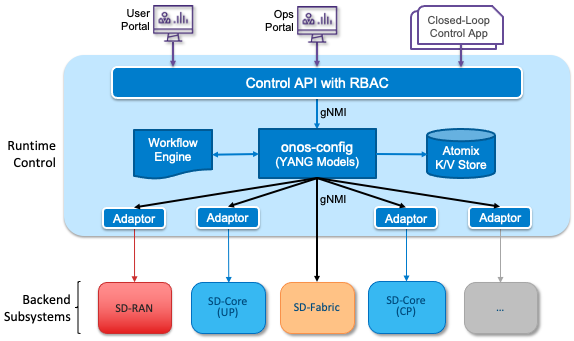
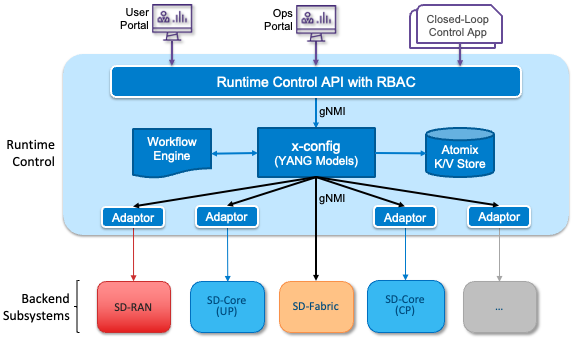
incorp feedback

diff --git a/control.rst b/control.rst
@@ -1,23 +1,22 @@
 Chapter 5:  Runtime Control
 ===========================
 	
-Runtime Control provides an API by which various principals (e.g.,
-users, operators) can make changes to a running system, primarily by
-specifying new values for one or more runtime parameters.
+Runtime Control provides an API by which various principals, such as
+end-users or privileged admins, can make changes to a running system,
+primarily by specifying new values for one or more runtime parameters.
 
 Using Aether’s 5G connectivity service as an example, suppose an
-enterprise user (or an enterprise admin, on that user's behalf) wants
-to change the *QoS-Profile* setting for their mobile device. This
-might include modifying the *Uplink* or *Downlink* bandwidth, or even
-selecting a different *Traffic Class*. Similarly, imagine a privileged
-operator wants to add a new *Mission-Critical* option to the existing
-set of *Traffic Classes* that *QoS-Profiles* can adopt. Without
-worrying about the exact syntax of the API call(s) for these
-operations, the Runtime Control subsystem needs to
+end-user wants to change the *QoS-Profile* setting for their mobile
+device. This might include modifying the *Uplink* or *Downlink*
+bandwidth, or even selecting a different *Traffic Class*. Similarly,
+imagine a privileged admin wants to add a new *Mission-Critical*
+option to the existing set of *Traffic Classes* that *QoS-Profiles*
+can adopt. Without worrying about the exact syntax of the API call(s)
+for these operations, the Runtime Control subsystem needs to
 
 1. Authenticate the principal wanting to perform the operation.
    
-2. Determine if that user has sufficient privilege to carry out the
+2. Determine if that principal has sufficient privilege to carry out the
    operation.
    
 3. Push the new parameter setting(s) to one or more backend components.
@@ -44,6 +43,18 @@ components, Runtime Control is where we define an API that logically
 integrates those components into a unified and coherent set of
 abstract services. It is also an opportunity to “raise the level of
 abstraction” for the underlying subsystems.
+
+One of the surprising challenges in defining abstractions is the
+rather pedestrian chore of coming up with suitable names for those
+abstractions. Terminology is often overloaded. That is certainly the
+case with our exemplar 5G connectivity service, starting with how we
+refer to various principals. In the following, a *user* refers to a
+person using the API or GUI portal (who may or may not have
+privileged access), and a *subscriber* refers to someone who uses a
+mobile device (it is a term borrowed from the Telco industry). To
+further complicate matters, not all devices have subscribers, since
+for example, IoT devices are not necessarily associated with a
+particular human.
 
 5.1 Design Overview
 -------------------
@@ -117,31 +128,29 @@ that we can build upon.
 	imparative language to define models.*
 
 With this background, :numref:`Figure %s <fig-roc>` shows the internal
-structure of Runtime Control for Aether, which has **onos-config**\—a
-microservice used in ONOS to maintain a set of YANG models for
-configuring network devices—at its core. In Aether, onos-config is
-re-purposed to use YANG models to control and configure cloud
-services.\ [#]_ onos-config, in turn, uses Atomix (a Key/Value-Store
-microservice), to make configuration state persistent. Because
-onos-config was originally designed to manage configuration state for
-devices, it uses gNMI as its southbound interface to communicate
-configuration changes to devices (or in our case, software
-services). An Adaptor has to be written for any service/device that
-does not support gNMI natively. These adaptors are shown as part of
-Runtime Control in :numref:`Figure %s <fig-roc>`, but it is equally
-correct to view each adaptor as part of the backend component,
-responsible for making that component management-ready. Finally,
-Runtime Control includes a Workflow Engine that is responsible for
-executing multi-step operations on the data model. This happens, for
-example, when a change to one model triggers some action on another
-model. Each of these components are described in more detail in the
-next section.
+structure of Runtime Control for Aether, which has **x-config**\—a
+microservice that maintains a set of YANG models—at its core.\ [#]_
+x-config, in turn, uses Atomix (a Key/Value-Store microservice), to
+make configuration state persistent. Because x-config was originally
+designed to manage configuration state for devices, it uses gNMI as
+its southbound interface to communicate configuration changes to
+devices (or in our case, software services). An Adaptor has to be
+written for any service/device that does not support gNMI
+natively. These adaptors are shown as part of Runtime Control in
+:numref:`Figure %s <fig-roc>`, but it is equally correct to view each
+adaptor as part of the backend component, responsible for making that
+component management-ready. Finally, Runtime Control includes a
+Workflow Engine that is responsible for executing multi-step
+operations on the data model. This happens, for example, when a change
+to one model triggers some action on another model. Each of these
+components are described in more detail in the next section.
 
-.. [#] Because ONOS is part of the SD-Fabric and SD-RAN, which are
-       responsible for configuring a set of devices, multiple
-       onos-config microservices run within a single Aether
-       cluster. Here, we focus on its role in managing services. It's
-       a general (reusable) tool.
+.. [#] x-config is general-purpose, model-agnostic tool. In Aether, it
+       manages YANG models for cloud services, but it is also used by
+       SD-Fabric to manage YANG models for a set of network switches
+       and by SD-RAN to manage YANG models for a set of RAN elements.
+       This means multiple instances of the x-config microservice run
+       in a give Aether edge cluster.
        
 .. _fig-roc:
 .. figure:: figures/Slide15.png
@@ -163,9 +172,8 @@ illustrated in :numref:`Figure %s <fig-roc2>`, where the key takeaway
 is that (1) we want RBAC and auditing for all operations; (2) we want
 a single source of authoritative configuration state; and (3) we want
 to grant limited (fine-grained) access to management functions to
-arbitrary principals rather than assume that only privileged operators
-ever touch, say, some aspect of deployment. (We’ll see an example of
-the latter in Section 5.3.)
+arbitrary principals rather than assume that only a single privileged
+class of operators.
 
 Of course, the private APIs of the underlying subsystems still exist,
 and operators can directly use them. This can be especially useful
@@ -192,23 +200,44 @@ K/V-store (as an optimization).
 
 .. _fig-roc2:
 .. figure:: figures/Slide16.png
-   :width: 500px
+   :width: 450px
    :align: center
 
    Runtime Control also mediates access to the other Management
    Services.
 
-One final aspect of :numref:`Figure %s <fig-roc2>` worth noting is
+Another aspect of :numref:`Figure %s <fig-roc2>` worth noting is
 that, while Runtime Control mediates all control-related activity, it
 is not in the “data path” for the subsystems it controls. This means,
 for example, that monitoring data returned by the Monitoring & Logging
 subsystem does not pass through Runtime Control; it is delivered
-directly to dashboards and applications running on top of AMP. Runtime
-Control is only involved in authorizing access to such data. It is
-also the case that Runtime Control and the Monitoring subsystem have
-their own, independent data stores: it is the Atomix K/V-Store for
-Runtime Control and a Time-Series DB for Monitoring (as discussed in
-more detail in Chapter 6).
+directly to dashboards and applications running on top of the
+API. Runtime Control is only involved in authorizing access to such
+data. It is also the case that Runtime Control and the Monitoring
+subsystem have their own, independent data stores: it is the Atomix
+K/V-Store for Runtime Control and a Time-Series DB for Monitoring (as
+discussed in more detail in Chapter 6).
+
+In summary, the value of a unified Runtime Control API is best
+illustrated by the ability to implement closed-loop control
+applications (and other dashboards) that "read" data collected by the
+Monitoring subsystem; perform some kind of analysis on that data,
+possibly resulting in a decision to take corrective action; and then
+"write" new control directives, which x-config passes along to, some
+combination of SD-RAN, SD-Core, and SD-Fabric, or even to the
+Lifecycle Management subsystem. (We'll see an example the latter in
+Section 5.3.) This closed-loop scenario is depicted in :numref:`Figure
+%s <fig-roc3>`, which gives a different perspective by showing the
+Monitoring subsystem as a "peer" of Runtime Control (rather than below
+it), although both perspectives are valid.
+
+.. _fig-roc3:
+.. figure:: figures/Slide17.png
+   :width: 500px
+   :align: center
+
+   Another perspective of Runtime Control, illustrating the value of a
+   unified API that supports closed-loop control applications.
 
 5.2 Implementation Details
 --------------------------
@@ -219,14 +248,14 @@ focusing on the role each plays in cloud management.
 Models & State
 ~~~~~~~~~~~~~~
 
-Onos-config is the core of the Runtime Control. Its job is to store
-and version configuration data. Configuration is pushed to onos-config
+x-config is the core of the Runtime Control. Its job is to store
+and version configuration data. Configuration is pushed to x-config
 through its northbound gNMI interface, stored in an persistent
 Key/Value-store, and pushed to backend subsystems using a southbound
 gNMI interface.
 
 A collection of YANG-based models define the schema for this
-configuration state. These models are loaded into onos-config, and
+configuration state. These models are loaded into x-config, and
 collectively define the data model for all the configuration and
 control state that Runtime Control is responsible for. As an example,
 the data model (schema) for Aether is sketched in Section 5.3, but
@@ -236,37 +265,47 @@ network devices.
 There are three details of note:
 
 * **Persistent Store:** Atomix is the cloud native K/V-store used to
-  persist data in onos-config. Atomix supports a distributed map
+  persist data in x-config. Atomix supports a distributed map
   abstraction, which implements the Raft consensus algorithm to
-  achieve fault-tolerance and scalable performance. Onos-config writes
+  achieve fault-tolerance and scalable performance. x-config writes
   data to and reads data from Atomix using a simple GET/PUT interface
   common to NoSQL databases.
   
 * **Loading Models:** A Kubernetes Operator (not shown in the figure),
-  is responsible for configuring the models within onos-config. Models
-  to load into onos-config are specified by a Helm chart. The operator
-  compiles them on demand and incorporates them into onos-config. This
+  is responsible for configuring the models within x-config. Models
+  to load into x-config are specified by a Helm chart. The operator
+  compiles them on demand and incorporates them into x-config. This
   eliminates dynamic load compatibility issues that are a problem when
-  models and onos-config are built separately.
+  models and x-config are built separately.
   
-* **Migration:** All the models loaded into onos-config are versioned,
+* **Migration:** All the models loaded into x-config are versioned,
   and the process of updating those models triggers the migration of
   persistent state from one version of the data model to another. The
   migration mechanism supports simultaneous operation of multiple
   versions.
+
+Note that because Atomix is fault-tolerant as long as it runs on
+multiple physical servers, it can be built on top of unreliable local
+(per-server) storage. There is no reason to use highly available
+cloud storage. On the other hand, prudence dictates that all the state
+the Runtime Control subsystem maintains be backed up periodically, in
+case it needs to be restarted from scratch due to a catastrophic
+failure. These checkpoints, plus all the configuration-as-code files
+stored in GitHub, collectively define the entirety of the
+authoritative state needed to (re-)instantiate a cloud deployment.
   
-Control API
-~~~~~~~~~~~
+Runtime Control API
+~~~~~~~~~~~~~~~~~~~
 
-A Control API provides an *interface wrapper* that sits between
-onos-config and higher-layer portals and applications. Northbound, it
-offers a RESTful API. Southbound, it speaks gNMI to onos-config. It is
-entirely possible to auto-generate the REST API from the set of models
-loaded into onos-config, although one is also free to augment this set
-with additional “hand-crafted” calls for the sake of convenience
-(although typically this will mean the API is no longer RESTful).
+An API provides an *interface wrapper* that sits between x-config and
+higher-layer portals and applications. Northbound, it offers a RESTful
+API. Southbound, it speaks gNMI to x-config. It is entirely possible
+to auto-generate the REST API from the set of models loaded into
+x-config, although one is also free to augment this set with
+additional “hand-crafted” calls for the sake of convenience (although
+typically this will mean the API is no longer RESTful).
 
-The Control API layer serves multiple purposes:
+The Runtime Control API layer serves multiple purposes:
 
 * Unlike gNMI (which supports only **GET** and **SET** operations), a
   RESTful API (which supports **GET**, **PUT**, **POST**, **PATCH**,
@@ -290,16 +329,16 @@ to associate users with groups. For example, adding administrators to
 the ``AetherAdmin`` group would be an obvious way to grant those
 individuals with administrative privileges within Runtime Control.
 
-An external authentication service, Dex, serves as a frontend to a
-database like LDAP. It authenticates the user, handles the mechanics
+An external authentication service, Keycloak, serves as a frontend to
+a database like LDAP. It authenticates the user, handles the mechanics
 of accepting the password, validating it, and securely returning the
-group the user belongs to. 
+group the user belongs to.
 
 .. _reading_dex:
 .. admonition:: Further Reading
 
-   `Dex: A Federated OpenID Connect Provider
-   <https://dexidp.io/>`__.
+   `Keycloak: Open Source Identity and Access Management
+   <https://www.keycloak.org/>`__.
 
 The group identifier is then used to grant access to resources within
 Runtime Control, which points to the related problem of establishing
@@ -326,7 +365,7 @@ the Runtime Control’s southbound gNMI calls and the SD-Core
 subsystem’s RESTful northbound interface. The adapter is not
 necessarily just a syntactic translator, but may also include its own
 semantic layer. This supports a logical decoupling of the models
-stored in onos-config and the interface used by the southbound
+stored in x-config and the interface used by the southbound
 device/service, allowing the southbound device/service and Runtime
 Control to evolve independently. It also allows for southbound
 devices/services to be replaced without affecting the northbound
@@ -335,7 +374,7 @@ interface.
 Workflow Engine
 ~~~~~~~~~~~~~~~
 
-The workflow engine, to the left of the onos-config in :numref:`Figure
+The workflow engine, to the left of the x-config in :numref:`Figure
 %s <fig-roc>`, is where multi-step workflows are implemented. For
 example, defining a new Slice or associating subscribers with an
 existing slice is a multi-step process, using several models and
@@ -355,7 +394,7 @@ Secure Communication
 
 gNMI naturally lends itself to mutual TLS for authentication, and that
 is the recommended way to secure communications between components
-that speak gNMI. For example, communication between onos-config and
+that speak gNMI. For example, communication between x-config and
 its adapters uses gNMI, and therefore, uses mutual TLS. Distributing
 certificates between components is a problem outside the scope of
 Runtime Control. It is assumed that another tool will be responsible
@@ -373,10 +412,10 @@ are leveraged as an authorization provider when using these REST APIs.
 This section sketches the data model for Aether's connectivity service
 as a way of illustrating the role Runtime Control plays. These models
 are specified in YANG (for which we include a concrete example of one
-of the modeld), but since the Control API is generated from these
-specs, it is equally valid to think in terms of an API that supports
-REST's GET, POST, PATCH, DELETE operations on a set of objects
-(resources):
+of the models), but since the Runtime Control API is generated from
+these specs, it is equally valid to think in terms of an API that
+supports REST's GET, POST, PATCH, DELETE operations on a set of
+objects (resources):
 
 * GET: Retrieve an object.
 * POST: Create an object.
@@ -505,8 +544,8 @@ QoS Profiles
 ~~~~~~~~~~~~~~~~~~~~~
 
 Associated with each connection is a QoS-related profile that governs
-how traffic that connection carries is treated. This starts with a
-`Template` model, which defines the valid (accepted) connectivity
+how traffic that connection carries is to be treated. This starts with
+a `Template` model, which defines the valid (accepted) connectivity
 settings. Aether Operations is responsible for defining these (the
 features they offer must be supported by the backend subsystems), with
 enterprises selecting the template they want applied to any instances
@@ -519,9 +558,16 @@ menu). That is, templates are used to initialize `VCS` objects. The
 * `traffic-class`: Link to a `Traffic-Class` object that describes the
   type of traffic.
 
-Note that a *slice*, like and *imsi*, is a 5G-specific term, which you
+Note that a `slice`, like an `imsi`, is a 5G-specific term, which you
 can think of as representing an isolated channel with associated QoS
-parameters.
+parameters. It is of particular note, however, because although it is
+"hidden" within the `Template` model (i.e., it is an implementation
+detail), it is realized (in part) by spinning up an entirely new copy
+of the SD-Core. This is done to ensure isolation, but it also
+illustrates a touch-point between Runtime Control and the Lifecycle
+Management subsystem: Runtime Control, via an Adaptor, engages
+Lifecycle Management to launch the necessary set of Kubernetes
+containers.
   
 The `Traffic-Class` model, in turn, specifies the classes of traffic,
 and includes the following fields:
